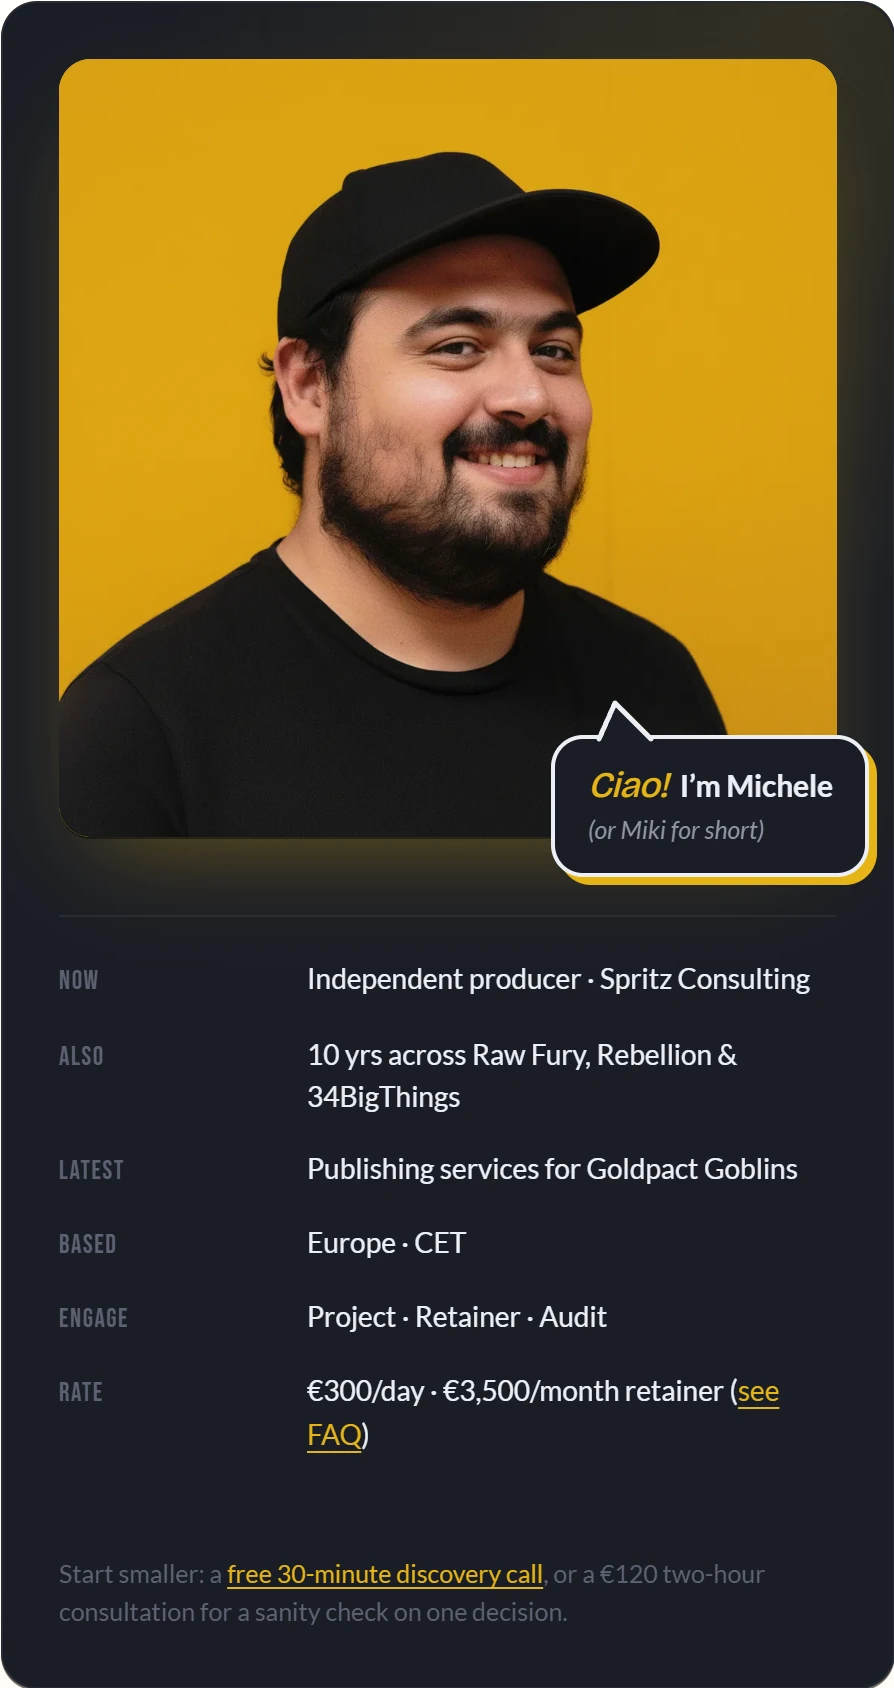
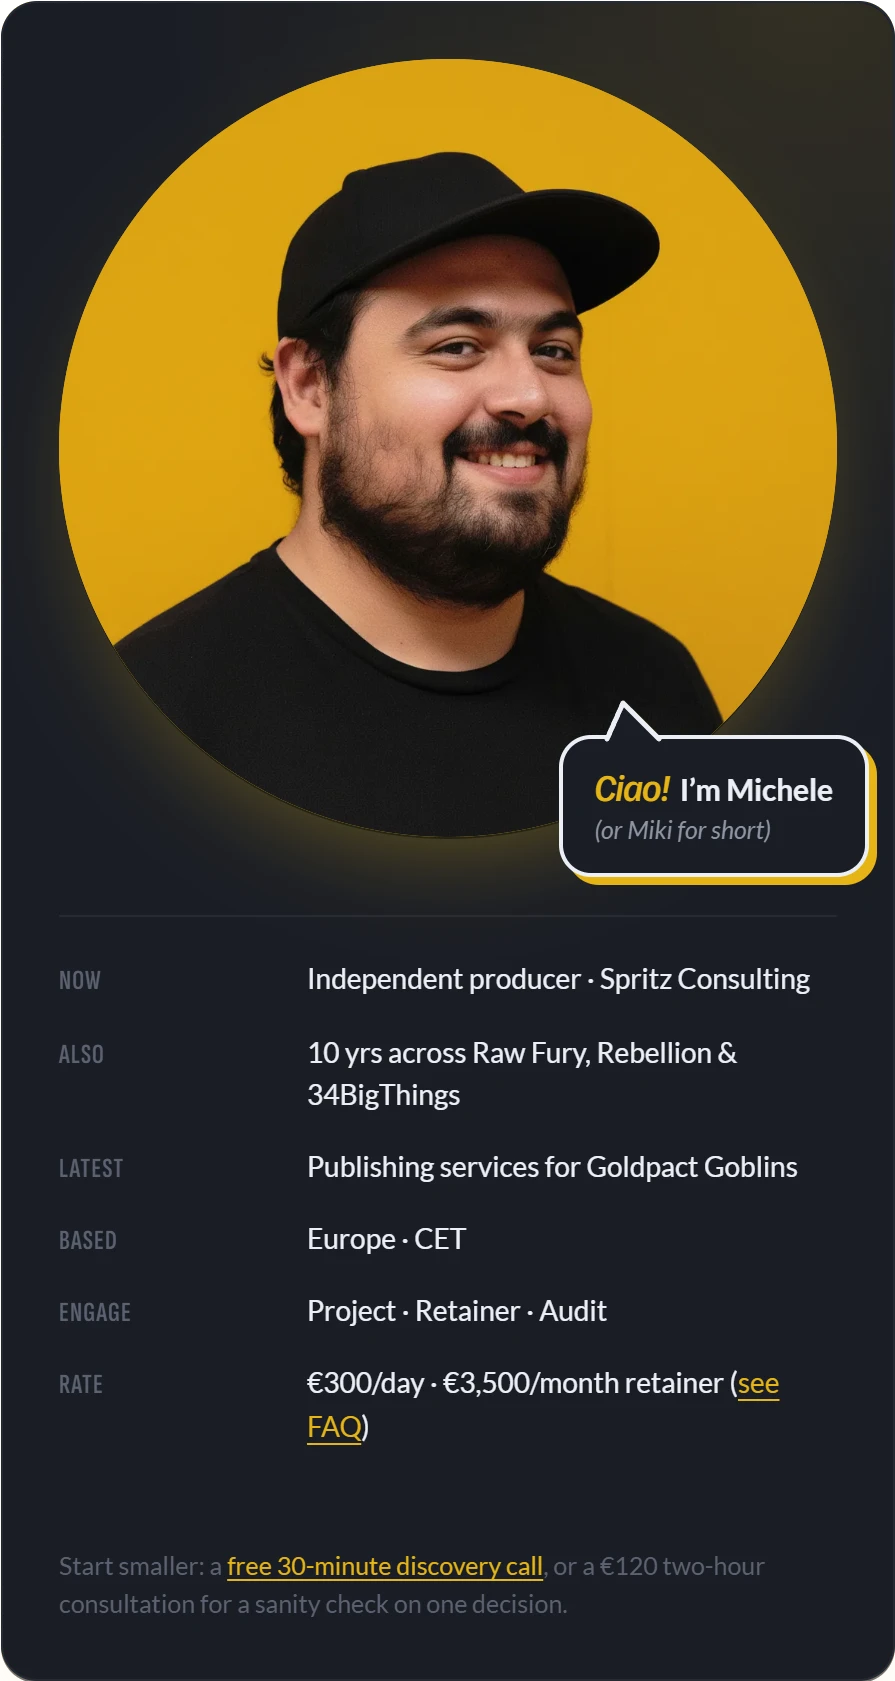
Hero card: circular portrait frame; regenerate lanyard badge images and links, bump asset versions

diff --git a/index.html b/index.html
@@ -715,7 +715,7 @@ body.is-tab-hidden .dot{
   position: relative;
   margin: 0;
   aspect-ratio: 1 / 1;
-  border-radius: 16px;
+  border-radius: 50%;
   background: var(--portrait-bg);
   box-shadow: 0 1px 0 rgba(0,0,0,0.4), 0 20px 50px -18px color-mix(in srgb, var(--clay) 40%, transparent);
   animation: portrait-float 8s ease-in-out infinite;
@@ -731,14 +731,14 @@ body.is-tab-hidden .dot{
 .portrait picture{
   display: block;
   height: 100%;
-  border-radius: 16px;
+  border-radius: 50%;
   overflow: hidden;
 }
 .portrait img{
   width: 100%; height: 100%;
   display: block;
   object-fit: cover;
-  border-radius: 16px;
+  border-radius: 50%;
 }
 
 /* Speech bubble — comic-style, pop-in then idle bob */
@@ -3313,7 +3313,7 @@ html[data-theme="light"] .logo-tile .logo-theme--light{ display: block; }
 <script src="/assets/js/services-h.js?v=20261012k" defer></script>
 <script src="/assets/js/frame-fit.js?v=20261023" defer></script>
 <script src="/assets/js/testi-cards.js?v=20261014" defer></script>
-<script type="module" src="/assets/js/lanyard.js?v=20261016b"></script>
+<script type="module" src="/assets/js/lanyard.js?v=20261112"></script>
 <script>
 (() => {
   // Haptic pulse on mobile reload (pull-to-refresh or browser refresh).

diff --git a/assets/js/lanyard.js b/assets/js/lanyard.js
@@ -34,7 +34,7 @@ const THREE_URL = '/assets/vendor/three-0.170.0.module.min.js';
 const RAPIER_URL = '/assets/vendor/rapier3d-compat-0.14.0.es.js';
 const ASSETS = '/assets/img/lanyard/';
 // Bump whenever the card images or cards.json are regenerated, so browsers and the CDN fetch the new set.
-const ASSETS_V = '?v=20261008';
+const ASSETS_V = '?v=20261112';
 
 // Values tuned in the lanyard lab.
 // size: share of the HTML card's height. topGap and bottomGap (px, desktop) keep the whole badge inside the first screen.
